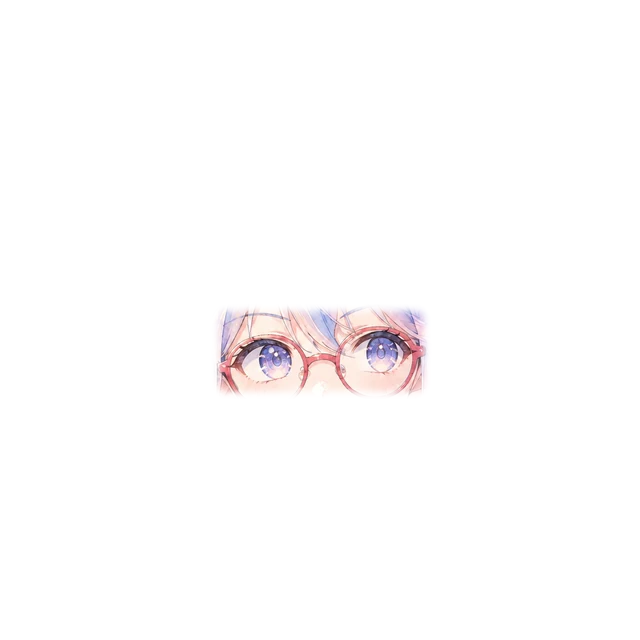
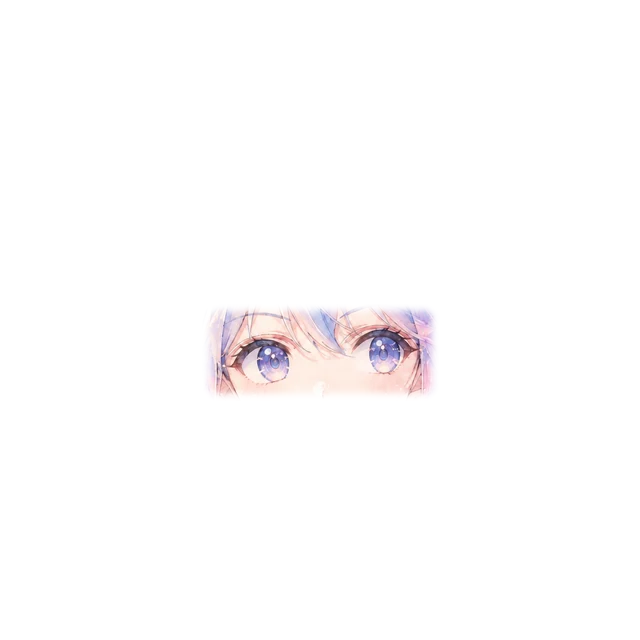
リグ: 眼鏡を独立レイヤー化(base−眼鏡なし版)。表情10種を眼鏡なし版から作り直し → 表情切替で眼鏡がズレん

Changed region(s): [[0.3125, 0.4688, 0.6875, 0.625]]

diff --git a/public/ayn-rig/rig.json.js b/public/ayn-rig/rig.json.js
@@ -1,1 +1,1 @@
-window.AYN_RIG = {"version": 1, "size": 640, "source": "AYN watercolor bust-up (mks ayn_s2) + custom GPT diff variants", "face": {"cx": 321, "eyes": [229, 325, 413, 378], "mouth": [305, 415, 346, 435], "neck_y": 511}, "layers": [{"name": "body", "file": "body.webp", "z": 0, "group": "body"}, {"name": "head", "file": "head.webp", "z": 1, "group": "head"}, {"name": "hair_L", "file": "hair_L.webp", "z": 2, "group": "head", "pivot": [192, 200], "physics": {"type": "pendulum", "stiffness": 9, "damping": 1.3, "max_deg": 20, "wind": 3.8, "phase": 0.0}}, {"name": "hair_R", "file": "hair_R.webp", "z": 3, "group": "head", "pivot": [468, 236], "physics": {"type": "pendulum", "stiffness": 9, "damping": 1.3, "max_deg": 20, "wind": 3.8, "phase": 1.7}}, {"name": "eyes_closed", "file": "eyes_closed.webp", "z": 4, "group": "head", "switch": "blink"}, {"name": "mouth_open", "file": "mouth_open.webp", "z": 5, "group": "head", "switch": "mouth"}, {"name": "eyes_happy", "file": "eyes_happy.webp", "z": 6, "group": "head", "switch": "expr"}, {"name": "eyes_wink", "file": "eyes_wink.webp", "z": 7, "group": "head", "switch": "expr"}, {"name": "eyes_up", "file": "eyes_up.webp", "z": 8, "group": "head", "switch": "expr"}, {"name": "face_sad", "file": "face_sad.webp", "z": 9, "group": "head", "switch": "expr"}, {"name": "face_surprise", "file": "face_surprise.webp", "z": 10, "group": "head", "switch": "expr"}, {"name": "face_shy", "file": "face_shy.webp", "z": 11, "group": "head", "switch": "expr"}, {"name": "face_angry", "file": "face_angry.webp", "z": 12, "group": "head", "switch": "expr"}, {"name": "face_sleepy", "file": "face_sleepy.webp", "z": 13, "group": "head", "switch": "expr"}, {"name": "hair_front", "file": "hair_front.webp", "z": 20, "group": "head", "pivot": [321, 249], "physics": {"type": "pendulum", "stiffness": 9, "damping": 1.5, "max_deg": 14, "wind": 16.0, "wind_freq": 0.55, "phase": 0.9}}], "expressions": {"neutral": {}, "happy": {"layers": ["eyes_happy"], "bangs": 5}, "wink": {"layers": ["eyes_wink"], "bangs": 7}, "think": {"layers": ["eyes_up"], "tilt": -6, "bangs": -6}, "sad": {"layers": ["face_sad"], "tilt": 4, "bangs": 4}, "surprise": {"layers": ["face_surprise"], "bangs": 0}, "kubikashige": {"layers": ["eyes_happy"], "tilt": 10, "bangs": 8}, "shy": {"layers": ["face_shy"], "tilt": 3, "bangs": 5}, "angry": {"layers": ["face_angry"], "bangs": -4}, "sleepy": {"layers": ["face_sleepy"], "tilt": -5, "bangs": -5}}, "groups": {"head": {"pivot": [321, 511], "tilt_deg": 4.0, "breathe_px": 6}, "body": {"pivot": [321, 640], "breathe_px": 3}}};
+window.AYN_RIG = {"version": 1, "size": 640, "source": "AYN watercolor bust-up (mks ayn_s2) + custom GPT diff variants", "face": {"cx": 320, "eyes": [220, 325, 421, 380], "mouth": [304, 413, 347, 426], "neck_y": 502}, "layers": [{"name": "body", "file": "body.webp", "z": 0, "group": "body"}, {"name": "head", "file": "head.webp", "z": 1, "group": "head"}, {"name": "hair_L", "file": "hair_L.webp", "z": 2, "group": "head", "pivot": [191, 200], "physics": {"type": "pendulum", "stiffness": 9, "damping": 1.3, "max_deg": 20, "wind": 3.8, "phase": 0.0}}, {"name": "hair_R", "file": "hair_R.webp", "z": 3, "group": "head", "pivot": [467, 236], "physics": {"type": "pendulum", "stiffness": 9, "damping": 1.3, "max_deg": 20, "wind": 3.8, "phase": 1.7}}, {"name": "eyes_closed", "file": "eyes_closed.webp", "z": 4, "group": "head", "switch": "blink"}, {"name": "mouth_open", "file": "mouth_open.webp", "z": 5, "group": "head", "switch": "mouth"}, {"name": "eyes_happy", "file": "eyes_happy.webp", "z": 6, "group": "head", "switch": "expr"}, {"name": "eyes_wink", "file": "eyes_wink.webp", "z": 7, "group": "head", "switch": "expr"}, {"name": "eyes_up", "file": "eyes_up.webp", "z": 8, "group": "head", "switch": "expr"}, {"name": "face_sad", "file": "face_sad.webp", "z": 9, "group": "head", "switch": "expr"}, {"name": "face_surprise", "file": "face_surprise.webp", "z": 10, "group": "head", "switch": "expr"}, {"name": "face_shy", "file": "face_shy.webp", "z": 11, "group": "head", "switch": "expr"}, {"name": "face_angry", "file": "face_angry.webp", "z": 12, "group": "head", "switch": "expr"}, {"name": "face_sleepy", "file": "face_sleepy.webp", "z": 13, "group": "head", "switch": "expr"}, {"name": "glasses", "file": "glasses.webp", "z": 19, "group": "head"}, {"name": "hair_front", "file": "hair_front.webp", "z": 20, "group": "head", "pivot": [320, 249], "physics": {"type": "pendulum", "stiffness": 9, "damping": 1.5, "max_deg": 14, "wind": 16.0, "wind_freq": 0.55, "phase": 0.9}}], "expressions": {"neutral": {}, "happy": {"layers": ["eyes_happy"], "bangs": 5}, "wink": {"layers": ["eyes_wink"], "bangs": 7}, "think": {"layers": ["eyes_up"], "tilt": -6, "bangs": -6}, "sad": {"layers": ["face_sad"], "tilt": 4, "bangs": 4}, "surprise": {"layers": ["face_surprise"], "bangs": 0}, "kubikashige": {"layers": ["eyes_happy"], "tilt": 10, "bangs": 8}, "shy": {"layers": ["face_shy"], "tilt": 3, "bangs": 5}, "angry": {"layers": ["face_angry"], "bangs": -4}, "sleepy": {"layers": ["face_sleepy"], "tilt": -5, "bangs": -5}}, "groups": {"head": {"pivot": [320, 502], "tilt_deg": 4.0, "breathe_px": 6}, "body": {"pivot": [320, 640], "breathe_px": 3}}};
